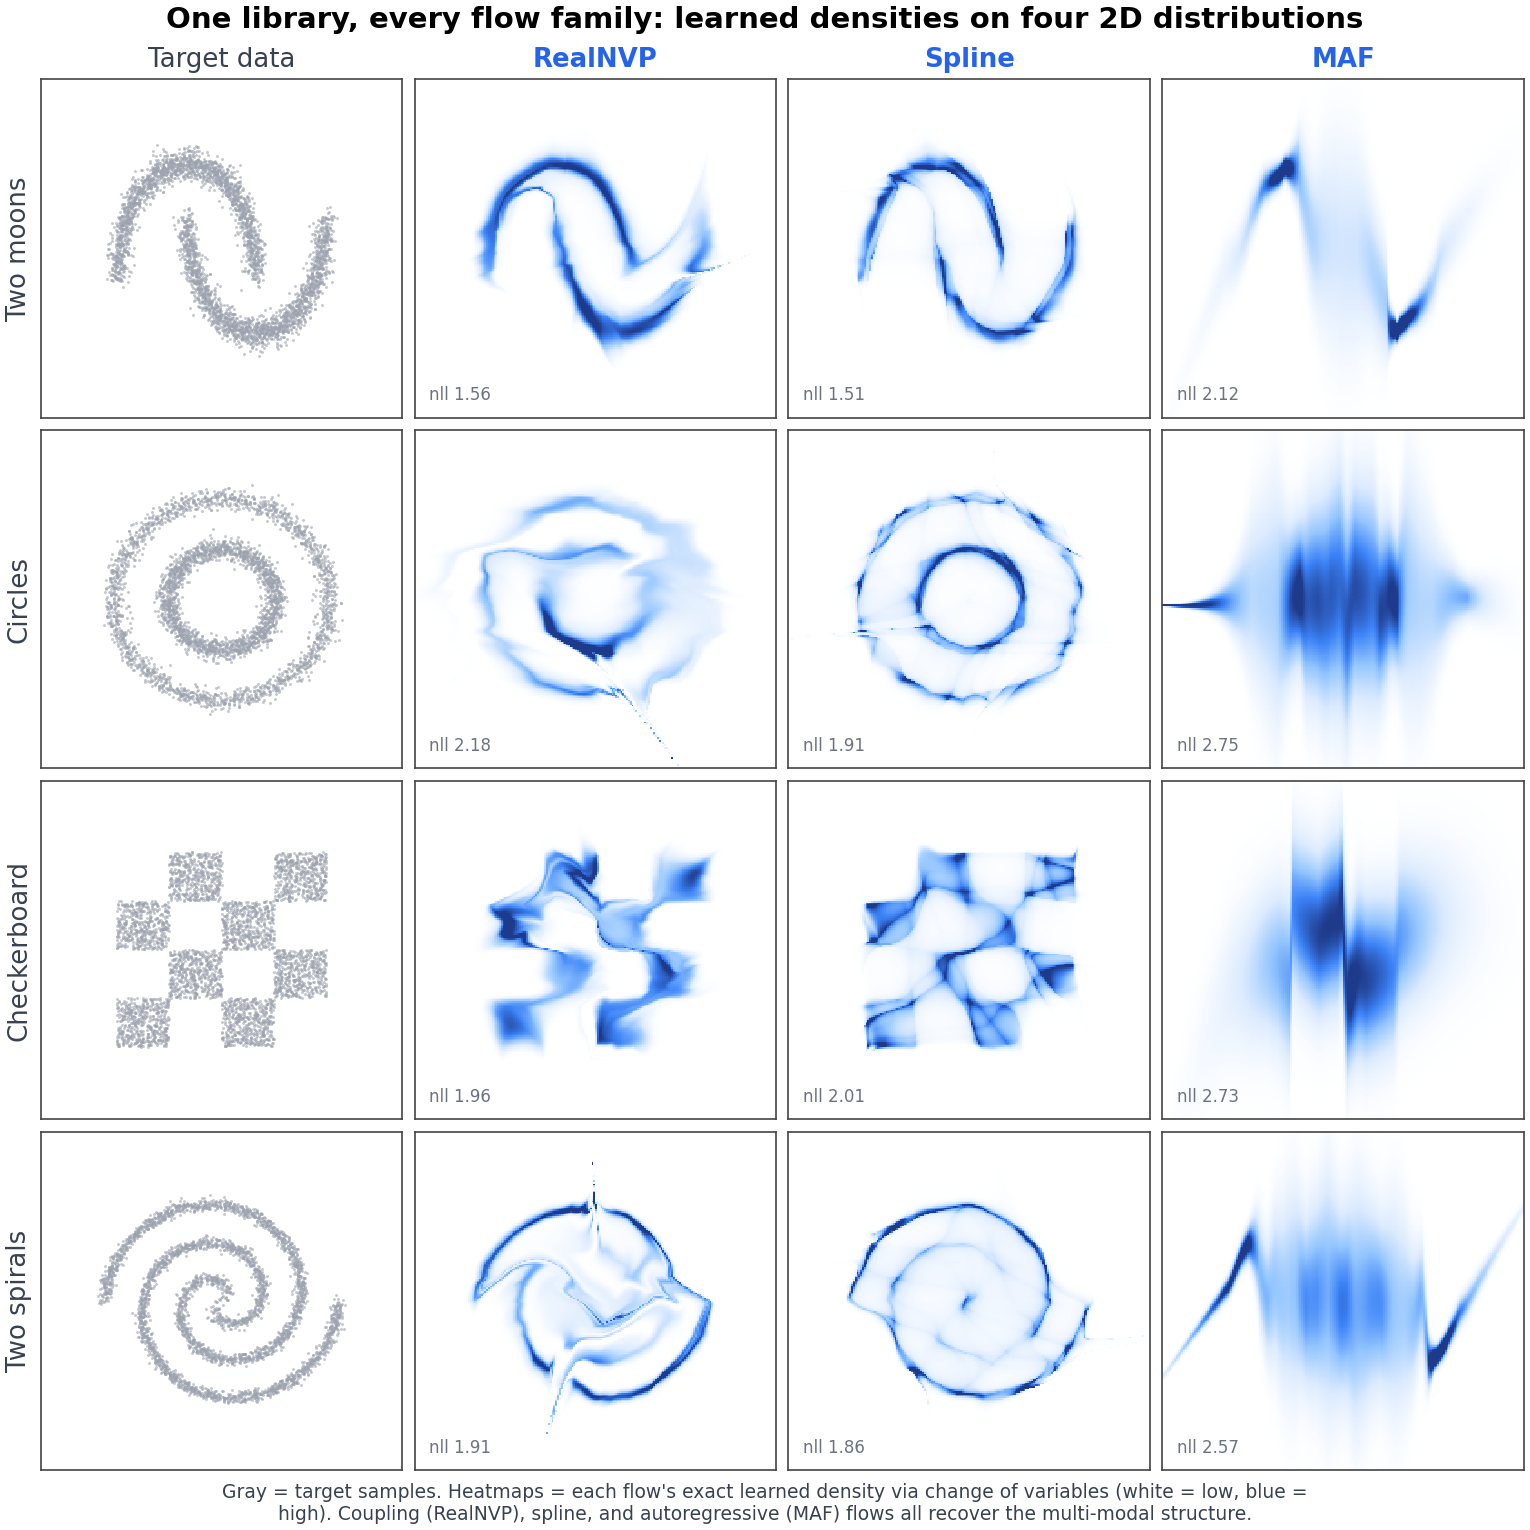
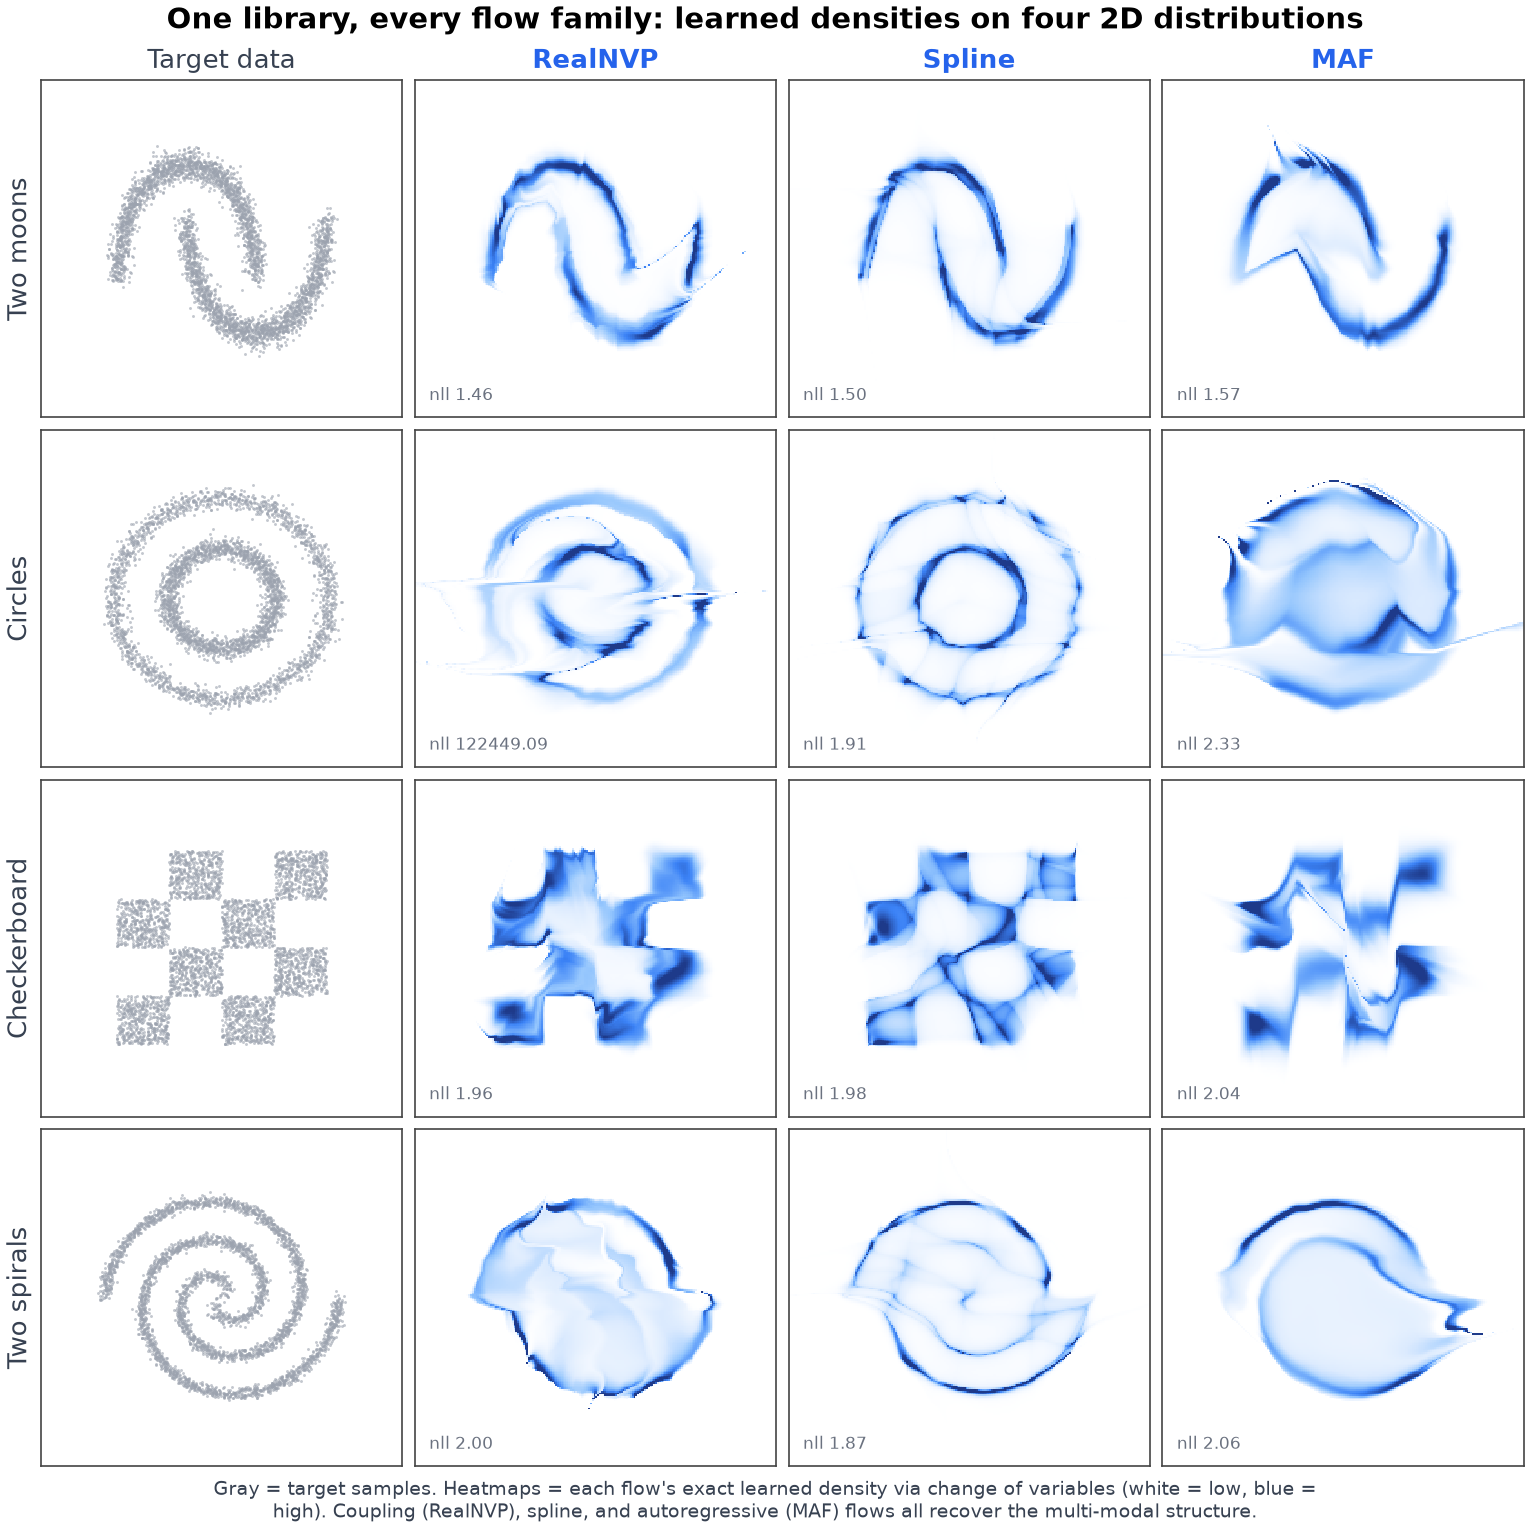
fix

diff --git a/plots/_common.py b/plots/_common.py
@@ -22,6 +22,7 @@ from src.flows import (
     MaskedAutoregressiveFlow,
     InverseAutoregressiveFlow,
     ContinuousFlow,
+    Permutation,
 )
 
 # --------------------------------------------------------------------------- #
@@ -162,7 +163,13 @@ def build_model(name, dim=2):
     if name == "spline":
         return RealNVPSpline(dim, 8, 64)
     if name == "maf":
-        return NormalizingFlowModel([MaskedAutoregressiveFlow(dim, 64) for _ in range(6)])
+        layers = []
+        reverse = torch.arange(dim - 1, -1, -1)
+        for index in range(6):
+            layers.append(MaskedAutoregressiveFlow(dim, 64))
+            if index < 5:
+                layers.append(Permutation(reverse))
+        return NormalizingFlowModel(layers)
     if name == "iaf":
         return NormalizingFlowModel([InverseAutoregressiveFlow(dim, 64) for _ in range(6)])
     if name == "cnf":
@@ -223,9 +230,7 @@ def model_samples(model, n=4000, dim=2):
 
 
 def recalibrate_bn(model, data, passes=50):
-    """MADE-based flows (MAF/IAF) use BatchNorm; their eval-mode running stats
-    can be miscalibrated after full-batch training, which blows up density
-    evaluation. Recompute cumulative running stats from the data, then eval."""
+    """Recompute BatchNorm running statistics for models that contain it."""
     bns = [m for m in model.modules() if isinstance(m, torch.nn.BatchNorm1d)]
     if not bns:
         return model

diff --git a/tests/correctness/test_bugfix_regression.py b/tests/correctness/test_bugfix_regression.py
@@ -14,6 +14,7 @@ from src.models import RealNVPSpline, NormalizingFlowModel
 from src.flows import (
     ARQS,
     CouplingLayer,
+    Permutation,
     MaskedAutoregressiveFlow,
     InverseAutoregressiveFlow,
     ContinuousFlow,
@@ -99,6 +100,23 @@ def test_coupling_transform_is_batch_independent():
     alone, _ = layer(target)
     batched, _ = layer(torch.cat([target, torch.randn(7, 2)]))
     assert torch.allclose(alone, batched[:1], atol=1e-7)
+
+
+def test_permuted_maf_can_condition_both_axes():
+    first = MaskedAutoregressiveFlow(2, 16)
+    second = MaskedAutoregressiveFlow(2, 16)
+    model = NormalizingFlowModel([first, Permutation([1, 0]), second]).eval()
+    x = torch.randn(8, 2)
+    transformed, forward_log_det = model.forward(x)
+    reconstructed, inverse_log_det = model.inverse(transformed)
+
+    assert torch.allclose(reconstructed, x, atol=1e-5)
+    assert torch.allclose(forward_log_det, -inverse_log_det, atol=1e-5)
+
+    jacobian = torch.autograd.functional.jacobian(
+        lambda value: model.inverse(value.unsqueeze(0))[0].squeeze(0), x[0]
+    )
+    assert jacobian[0, 1].abs() > 0
 
 
 # --------------------------------------------------------------------------- #

diff --git a/src/flows/flow/permutation.py b/src/flows/flow/permutation.py
@@ -1,0 +1,26 @@
+import torch
+
+from .flow import Flow
+
+
+class Permutation(Flow):
+    """Permute feature order between flow layers without changing density."""
+
+    def __init__(self, permutation):
+        super().__init__()
+        permutation = torch.as_tensor(permutation, dtype=torch.long)
+        if permutation.ndim != 1:
+            raise ValueError("permutation must be one-dimensional")
+        expected = torch.arange(permutation.numel())
+        if not torch.equal(torch.sort(permutation).values.cpu(), expected):
+            raise ValueError("permutation must contain each feature index exactly once")
+
+        self.data_dim = permutation.numel()
+        self.register_buffer("permutation", permutation)
+        self.register_buffer("inverse_permutation", torch.argsort(permutation))
+
+    def forward(self, z):
+        return z[:, self.permutation], z.new_zeros(z.size(0))
+
+    def inverse(self, x):
+        return x[:, self.inverse_permutation], x.new_zeros(x.size(0))

diff --git a/tests/correctness/test_invertibility.py b/tests/correctness/test_invertibility.py
@@ -14,6 +14,7 @@ from src.flows.autoregressive.inverse_autoregressive_flow import InverseAutoregr
 from src.flows.spline.spline_coupling_layer import SplineCouplingLayer
 from src.flows.spline.arqs import ARQS
 from src.flows.continuous.continuous_flow import ContinuousFlow
+from src.flows.flow.permutation import Permutation
 from src.models.real_nvp import RealNVP
 from src.models.real_nvp_spline import RealNVPSpline
 from src.models.normalizing_flow_model import NormalizingFlowModel
@@ -43,6 +44,7 @@ def get_all_flow_classes():
         MaskedAutoregressiveFlow(dim, hidden_dim),
         InverseAutoregressiveFlow(dim, hidden_dim),
         ARQS(dim, hidden_dim, num_bins=4),
+        Permutation(torch.arange(dim - 1, -1, -1)),
     ]
     
     # Continuous flow (special case due to different interface)

diff --git a/src/flows/__init__.py b/src/flows/__init__.py
@@ -1,5 +1,6 @@
 from .flow.flow import Flow
 from .flow.sequential_flow import SequentialFlow
+from .flow.permutation import Permutation
 from .autoregressive.masked_linear import MaskedLinear
 from .autoregressive.made import MADE
 from .autoregressive.masked_autoregressive_flow import MaskedAutoregressiveFlow
@@ -18,6 +19,7 @@ from .advanced.causal_transformer import CausalTransformer
 __all__ = [
     "Flow",
     "SequentialFlow",
+    "Permutation",
     "MaskedLinear",
     "MADE",
     "MaskedAutoregressiveFlow",
